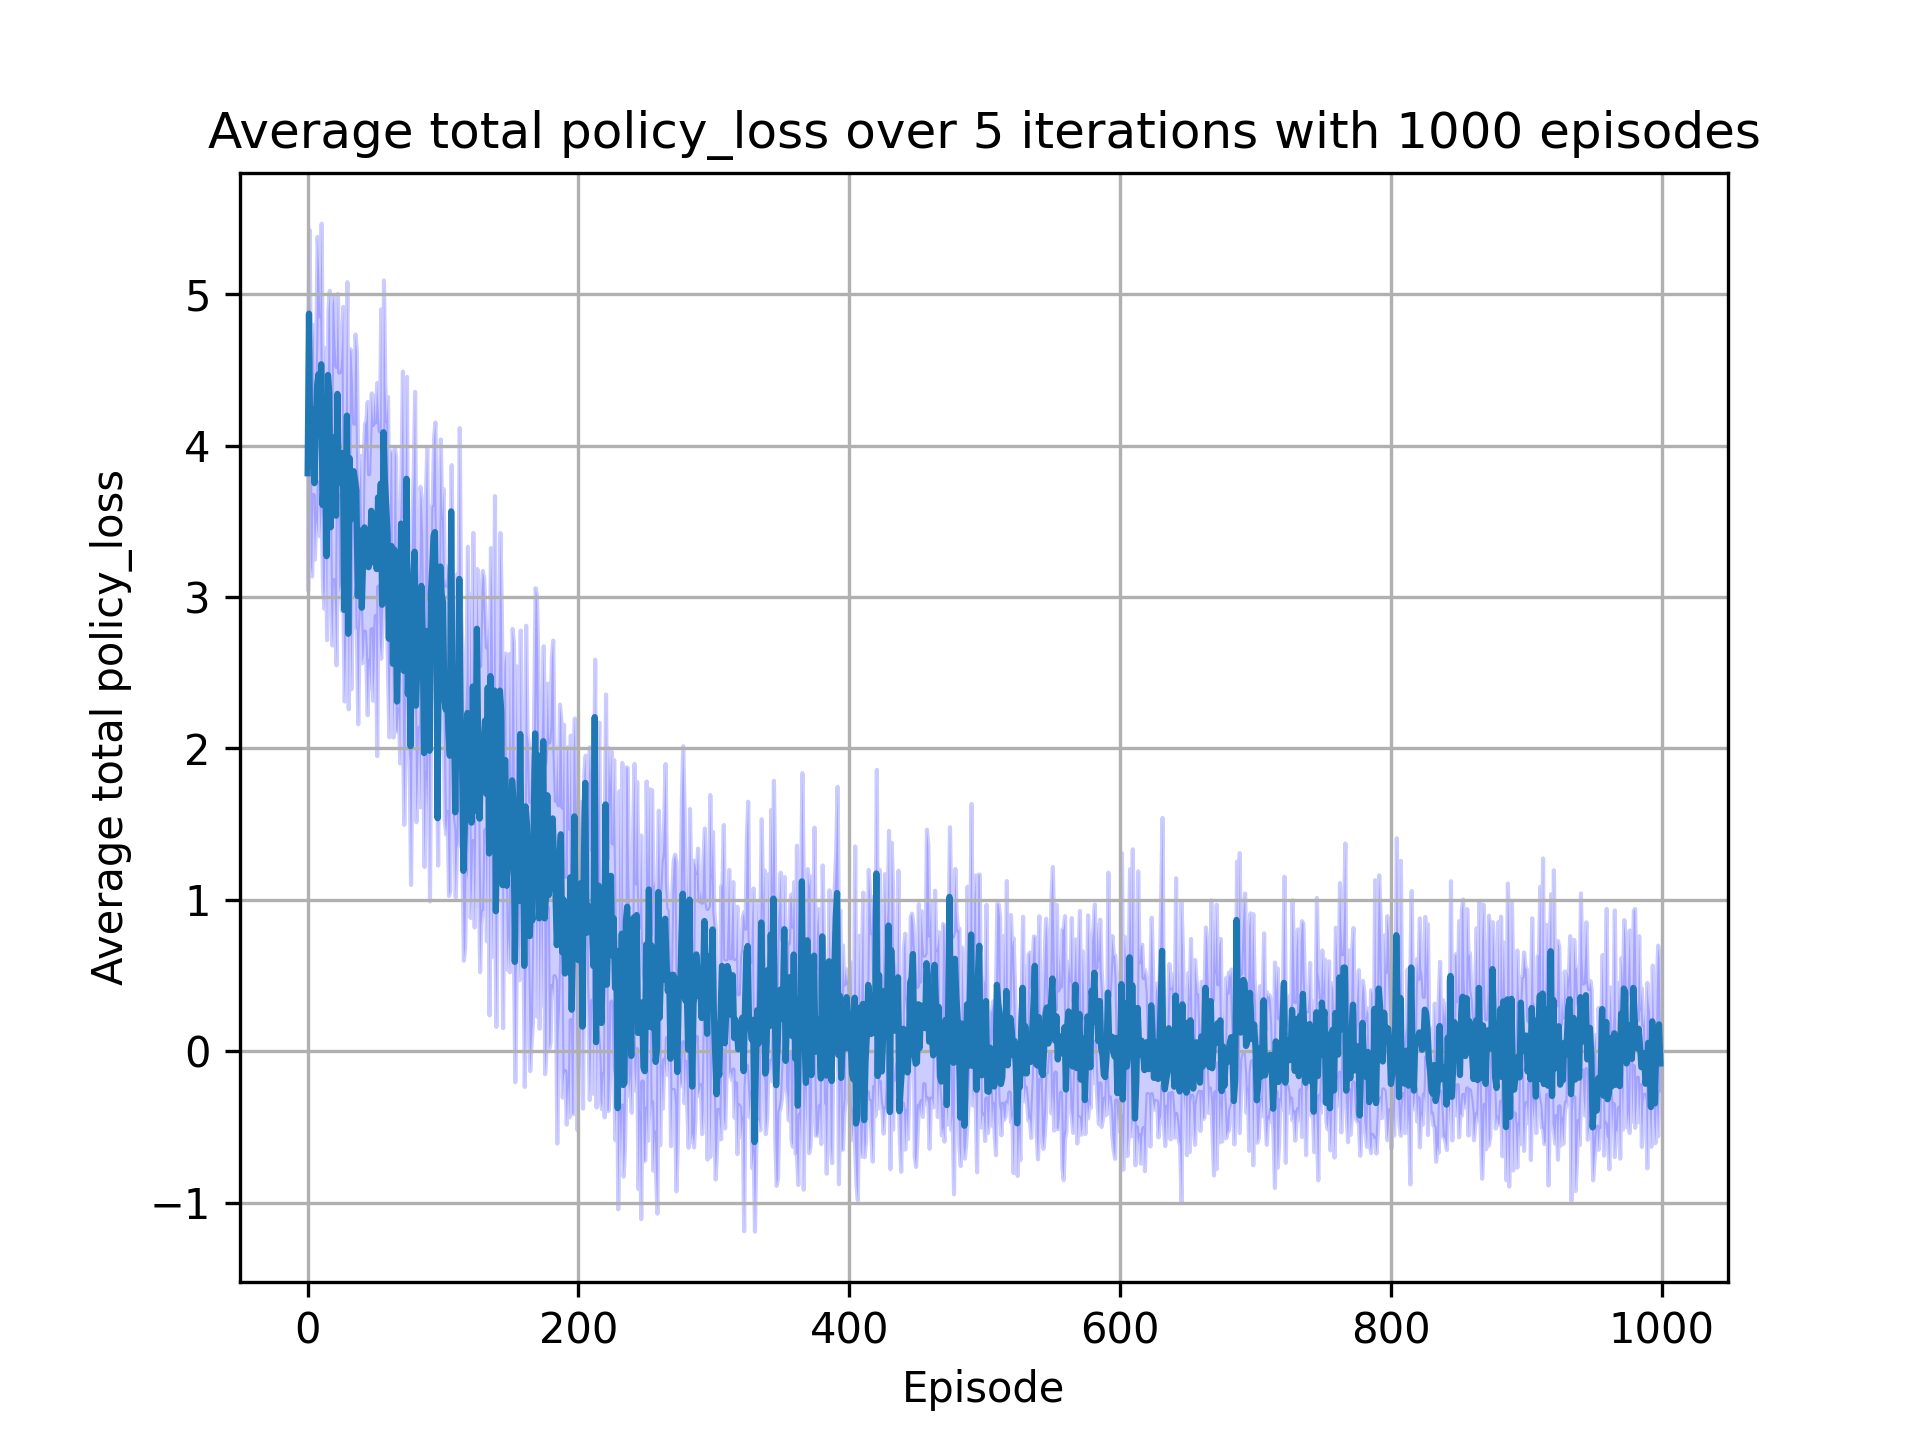
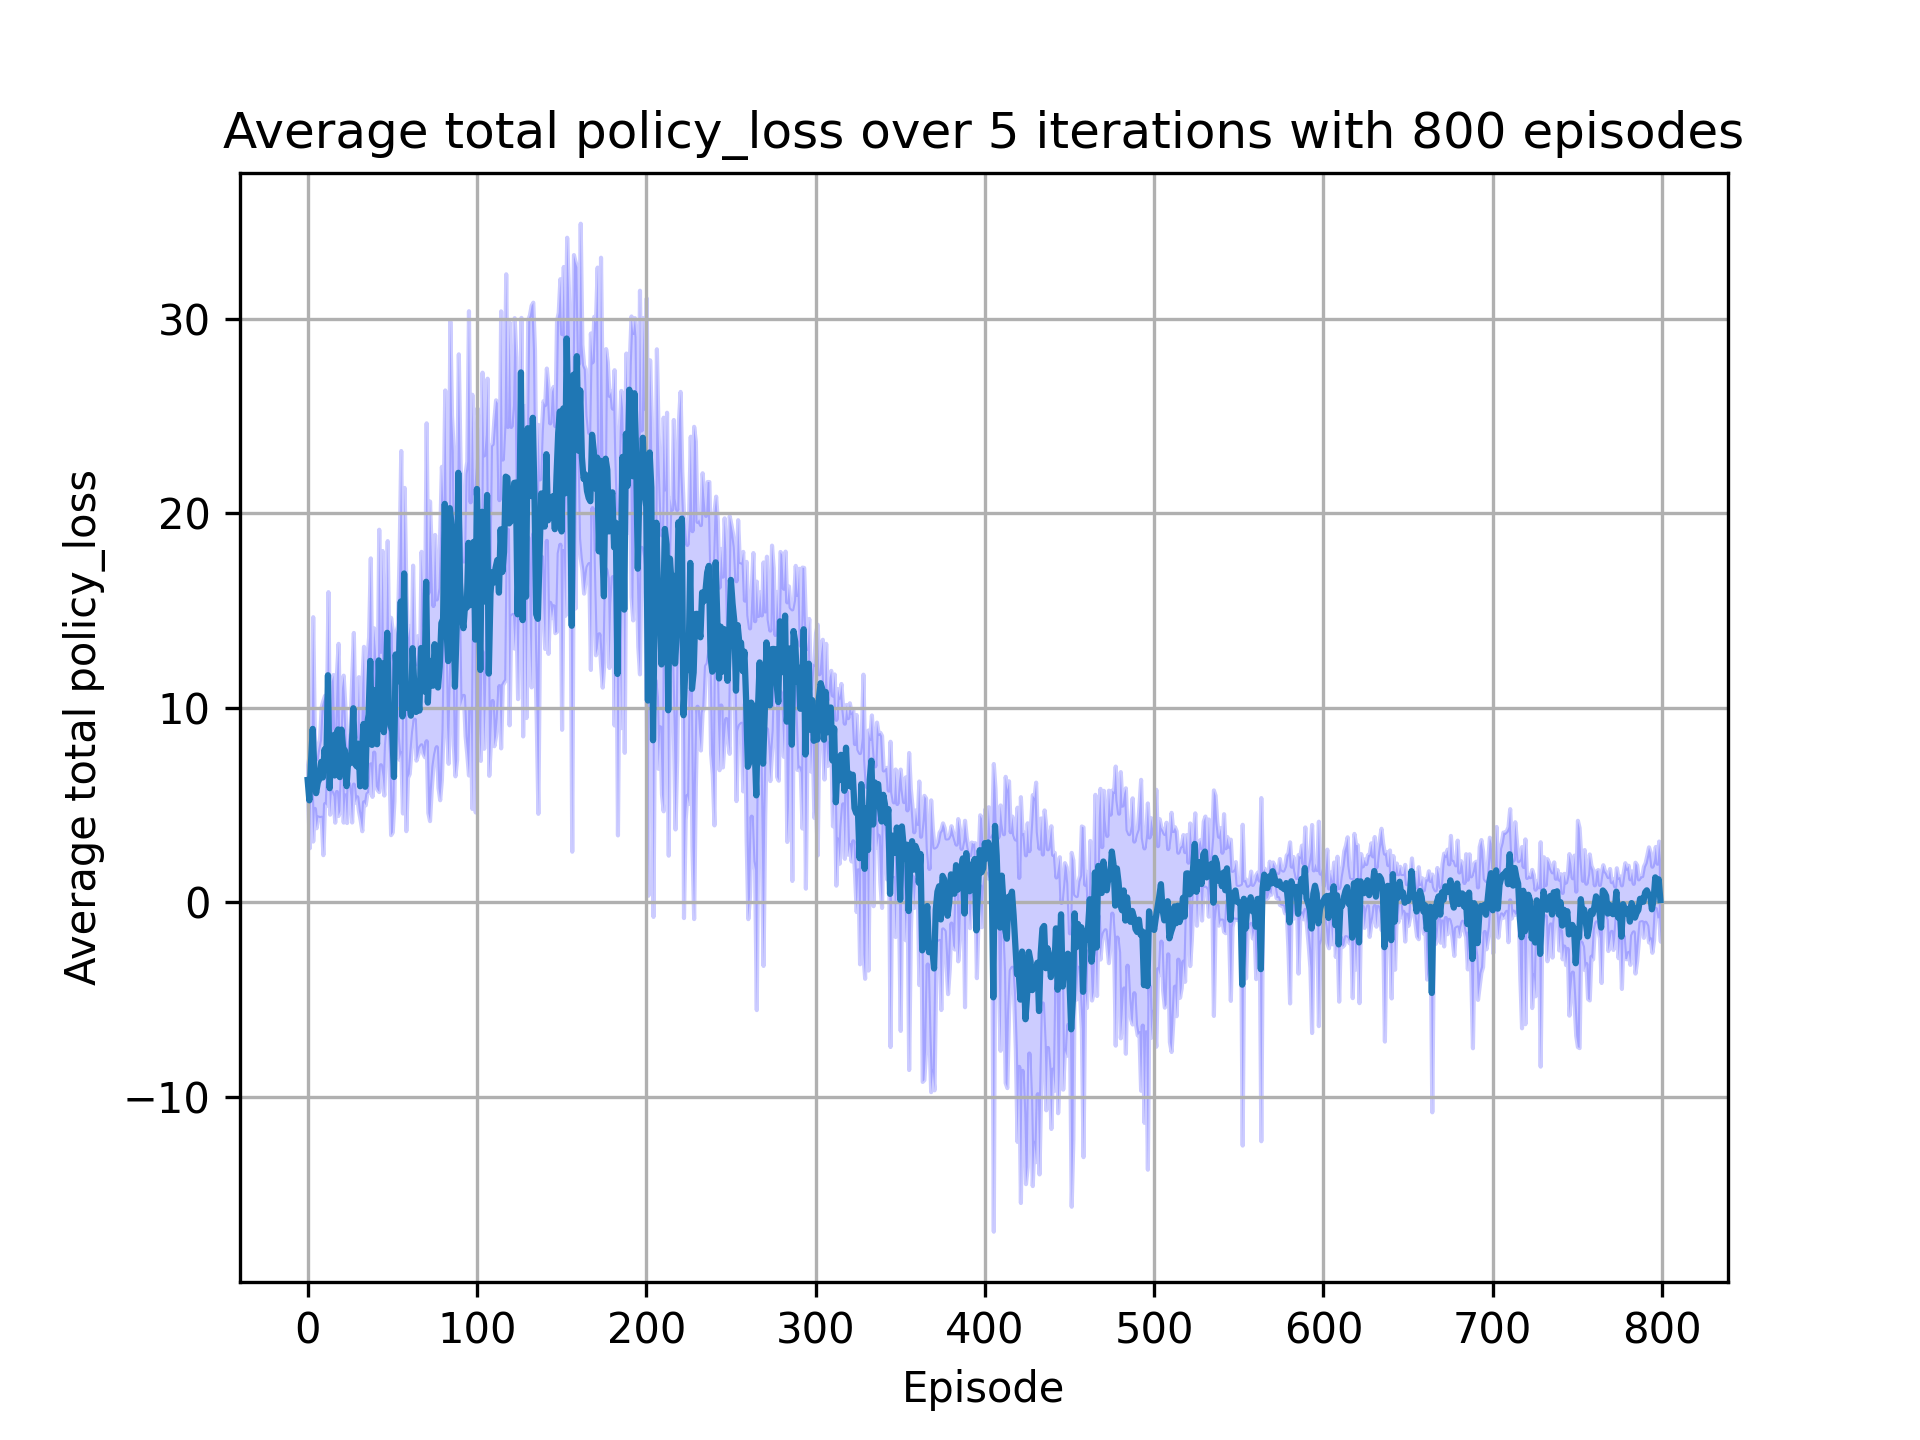
updated figs

diff --git a/REINFORCE.py b/REINFORCE.py
@@ -12,14 +12,12 @@ class SoftmaxPolicyNetwork(nn.Module):
     def __init__(self, state_size, hidden_size, action_size):
         super(SoftmaxPolicyNetwork, self).__init__()
         self.fc1 = nn.Linear(state_size, hidden_size)
-        self.fc2 = nn.Linear(hidden_size, hidden_size)
-        self.fc3 = nn.Linear(hidden_size, action_size)
-        self.softmax = nn.Softmax(dim=0)
+        self.fc2 = nn.Linear(hidden_size, action_size)
+        self.softmax = nn.Softmax(dim=1) # dim=1 fixed issues
 
     def forward(self, state):
         state = relu(self.fc1(state))
-        state = relu(self.fc2(state))
-        return self.softmax(self.fc3(state))
+        return self.softmax(self.fc2(state))
     
 class BaselineNetwork(nn.Module):
     def __init__(self, state_size, hidden_size):
@@ -51,13 +49,15 @@ def reinforce(env, alpha_theta:float = .01, alpha_w:float = .01, n_episodes=100,
     all_total_rewards = []  # Store returns for each episode for logging
     average_policy_losses = []
     average_value_losses = []
-    for _ in range(n_episodes):
+    for i in range(n_episodes):
+        print(i)
         # Generate trajectory
         state = env.reset()[0]
         log_probs = []
         values = []
         rewards = []
         done = False
+        t = 0
         while not done:
             if isinstance(state, tuple):
                 state = np.array(state)
@@ -77,6 +77,11 @@ def reinforce(env, alpha_theta:float = .01, alpha_w:float = .01, n_episodes=100,
             values.append(value)
             rewards.append(reward)
             state = next_state
+
+            t += 1
+            # Set max time step
+            if t == 500:
+                break
 
         total_reward = sum(rewards)
         all_total_rewards.append(total_reward)
@@ -109,29 +114,11 @@ def reinforce(env, alpha_theta:float = .01, alpha_w:float = .01, n_episodes=100,
         average_policy_loss = sum(policy_losses)/len(policy_losses)
         average_value_loss = sum(value_losses)/len(value_losses)
 
-        # policy_losses = []
-        # value_losses = []
-        # for log_prob, value, G in zip(log_probs, values, returns):
-        #     delta = G - value.item()
-        #     # Ignore gamma term since not needed in practice
-        #     policy_loss = -log_prob * delta
-        #     policy_losses.append(policy_loss)
-        #     # Use mean-squared error
-        #     # (value.squeeze() - G)^2 is equivalnet to gradient of delta
-        #     value_loss = (value - G).pow(2)
-        #     value_losses.append(value_loss)
-        # average_policy_loss = sum(policy_losses)/len(policy_losses)
-        # average_value_loss = sum(value_losses)/len(value_losses)
-        
         average_policy_losses.append(average_policy_loss.item())
         average_value_losses.append(average_value_loss.item())
 
-        # policy_loss =
-
         policy_optimizer.step()
         baseline_optimizer.step()
-        # policy_loss.backward()
-        # value_loss.backward()
 
     return policy_net, baseline_net, all_total_rewards, average_policy_losses, average_value_losses
 
@@ -216,12 +203,7 @@ if __name__=="__main__":
     # Example usage
     env_name = "CartPole-v1"
     env = gym.make(env_name)
-    # env_name = "GW687"
-    # env = gw.GW687()
-    # alpha_theta = .001
-    # alpha_w = .001
-    # iterations = 5
-    n_episodes = 2000
+    n_episodes = 800
     gamma = .99
 
     DUMP = True
@@ -257,69 +239,3 @@ if __name__=="__main__":
         print(f"Key: {key.alpha_theta, key.alpha_w, key.n_episodes, key.gamma}, Value: {value}")
         plot(env, env_name, n_iterations=5, alpha_theta=key.alpha_theta, alpha_w=key.alpha_w, n_episodes=key.n_episodes, gamma=key.gamma)
 
-
-    # import matplotlib.pyplot as plt
-    # import matplotlib.animation as animation
-    # from PIL import ImageFont, ImageDraw, Image
-    # import numpy as np
-    # import cv2
-
-    # policy_net, baseline_net, _, _, _ = reinforce(env, .001, .001, 1000, .99)
-
-    # fig = plt.figure()
-    # ACTION_SPACE = [0,1]
-    # env = gym.make("CartPole-v0")
-    # state = env.reset()
-    # ims = []
-    # rewards = []
-    # for step in range(500):
-    #     # env.render()
-    #     img = env.render(render_mode='rgb_array')
-    #     state_tensor = from_numpy(state).float().unsqueeze(0)
-    #     action_probs = policy_net(state_tensor)
-    #     dist = distributions.Categorical(action_probs)
-    #     action = dist.sample()
-    #     print(action)
-    #     state,reward,done,_ = env.step(action.item())
-    #     print(reward)
-    #     rewards.append(reward)
-    #     cv2_im_rgb = cv2.cvtColor(img, cv2.COLOR_BGR2RGB)
-    #     pil_im = Image.fromarray(cv2_im_rgb)
-
-    #     draw = ImageDraw.Draw(pil_im)
-
-    #     # Choose a font
-    #     font = ImageFont.truetype("Roboto-Regular.ttf", 20)
-
-    #     # Draw the text
-    #     draw.text((0, 0), f"Step: {step} Action : {action} Reward: {reward} Total Rewards: {np.sum(rewards)} done: {done}", font=font,fill="#000000")
-
-    #     # Save the image
-    #     img = cv2.cvtColor(np.array(pil_im), cv2.COLOR_RGB2BGR)
-    #     # img = cv2.cvtColor(np.array(pil_im), cv2.COLOR_RGB2GRAY)
-    #     im = plt.imshow(img, animated=True)
-    #     ims.append([im])
-    # env.close()    
-
-    # Writer = animation.writers['pillow']
-    # writer = Writer(fps=15, metadata=dict(artist='Me'), bitrate=1800)
-    # im_ani = animation.ArtistAnimation(fig, ims, interval=50, repeat_delay=3000,
-    #                                     blit=True)
-    # im_ani.save('cp_train.gif', writer=writer)
-
-    # Plot rewards over episodes
-    # plt.plot(all_total_rewards)
-    # plt.title("Expected Return Over Episodes")
-    # plt.xlabel("Episodes")
-    # plt.ylabel("Total Return")
-    # plt.show()
-    # plt.plot(policy_losses)
-    # plt.title("Average Policy Loss Over Episodes")
-    # plt.xlabel("Episodes")
-    # plt.ylabel("Avg Policy Loss")
-    # plt.show()
-    # plt.plot(value_losses)
-    # plt.title("Average Value Loss Over Episodes")
-    # plt.xlabel("Episodes")
-    # plt.ylabel("Avg Value Loss")
-    # plt.show()
